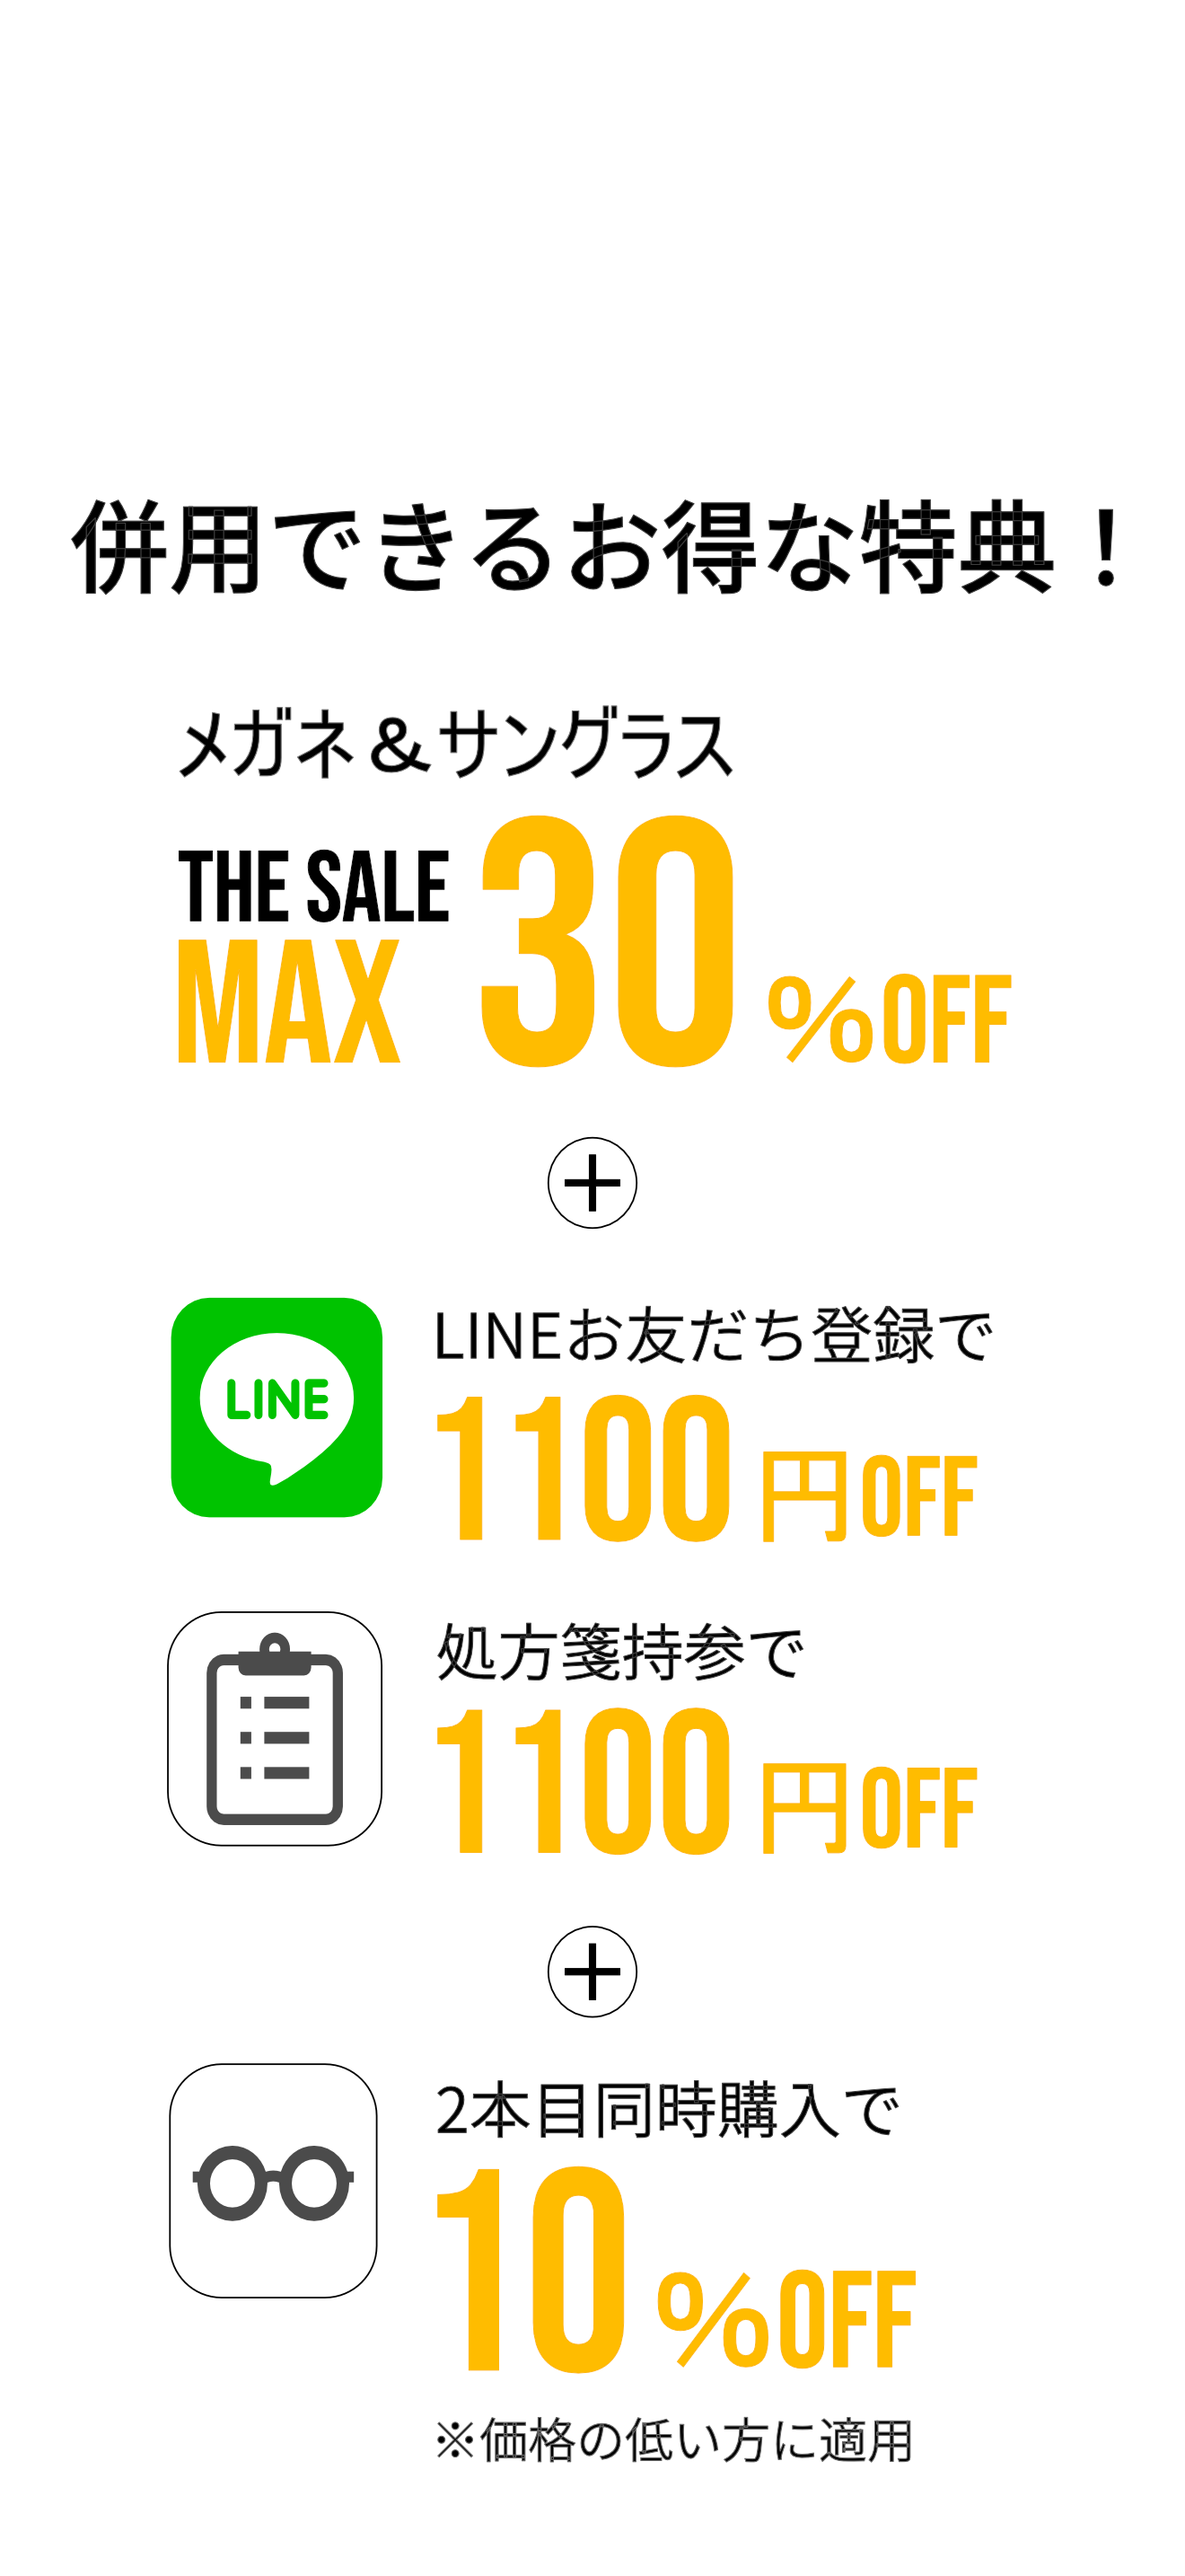
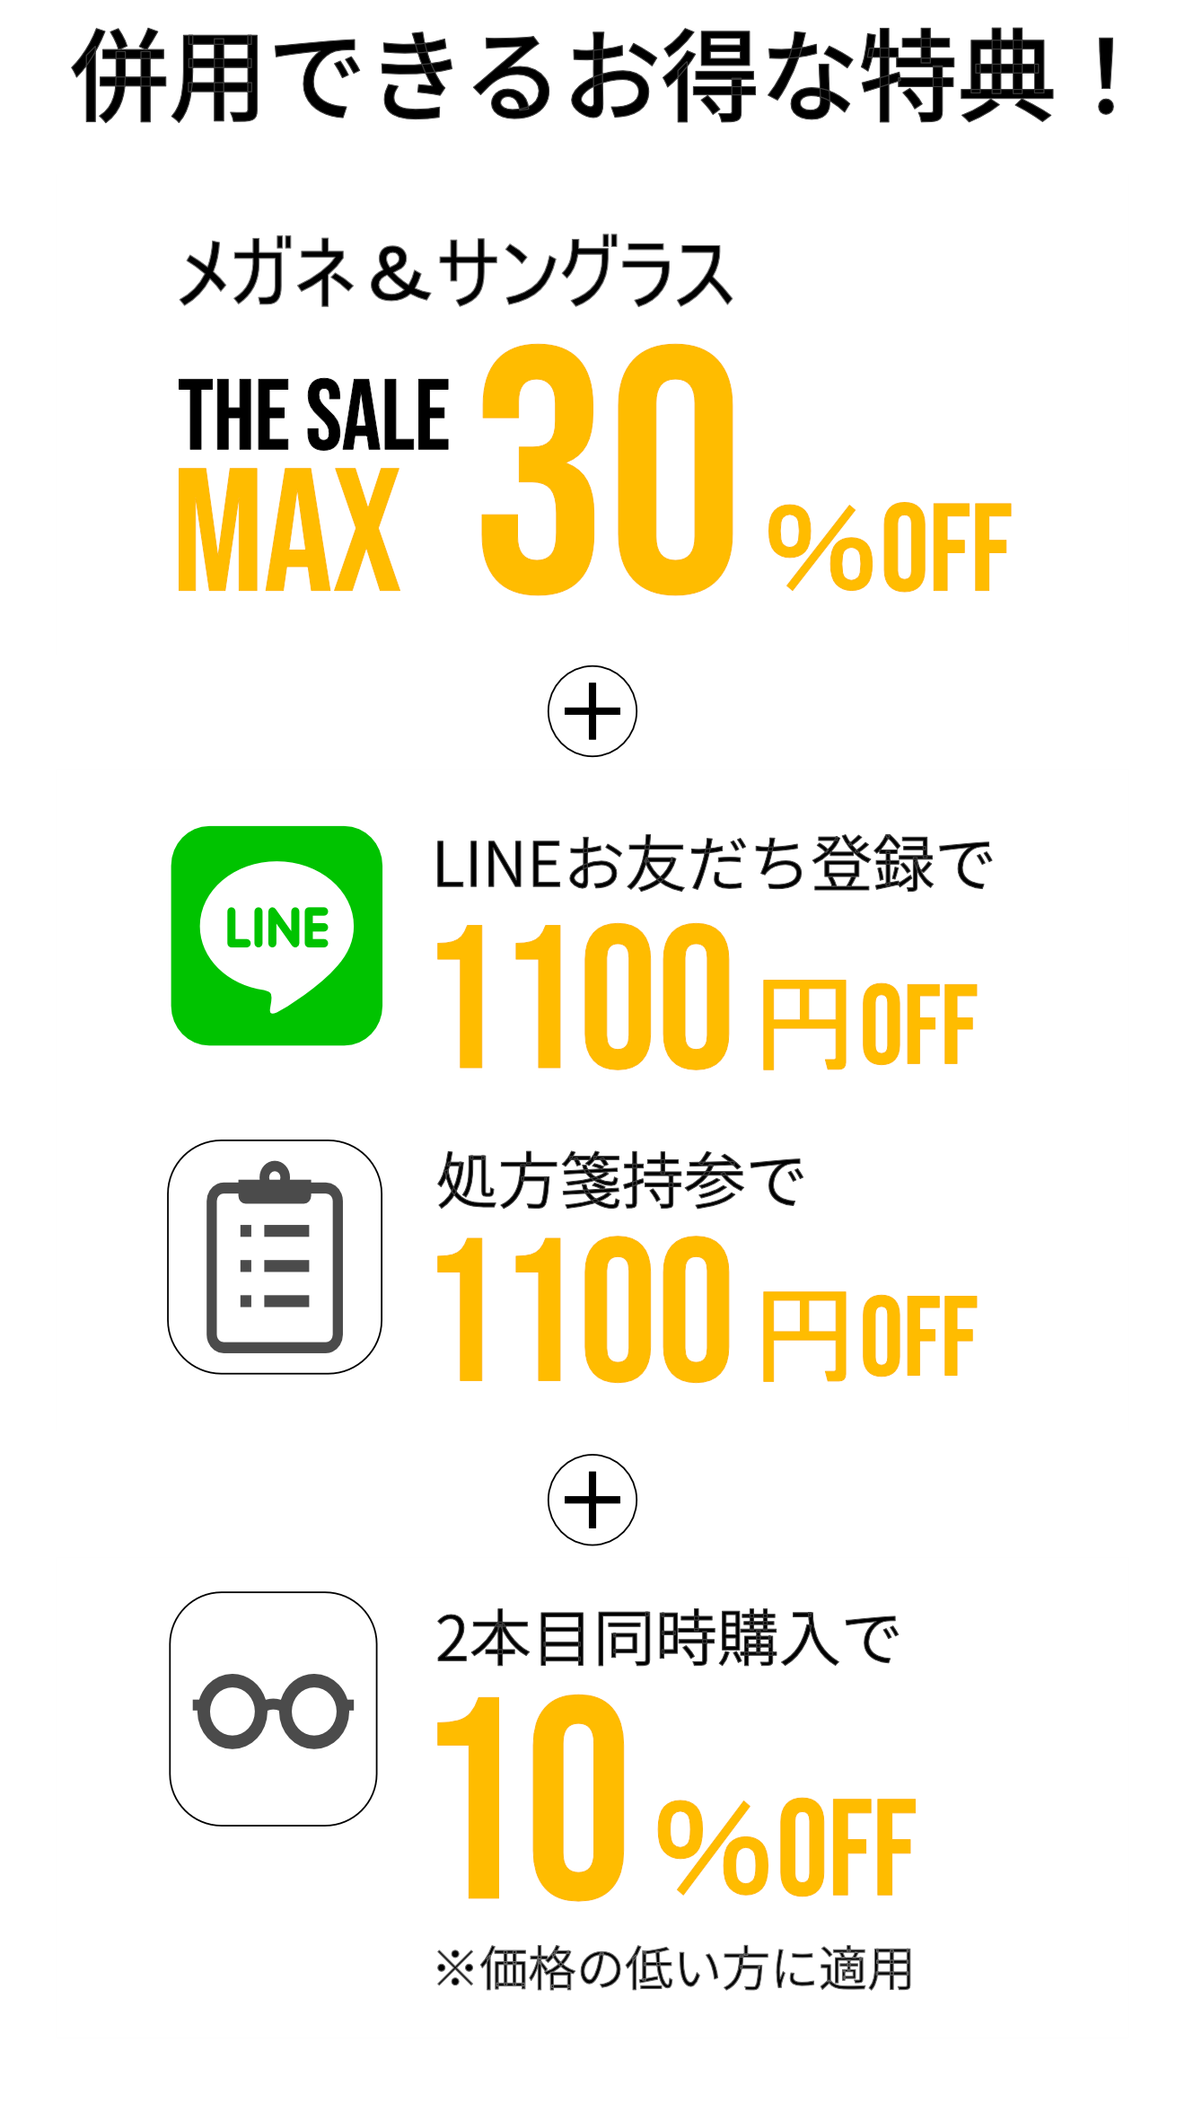
特典セクションのスマホ版画像(sumaho.png)上部の余分な空白をトリミング、吹き出しと見出しの間隔を詰める

diff --git a/index.html b/index.html
@@ -268,6 +268,10 @@
     background: #FBF6EA;
     padding: clamp(24px, 4vh, 40px) clamp(8px, 1vw, 16px);
   }
+  @media (max-width: 640px) {
+    .lens-standard-band { margin-bottom: 20px !important; }
+    .perk-section { padding-top: 16px; }
+  }
   .perk-inner { max-width: 1000px; margin: 0 auto; position: relative; }
   .perk-benefits-image { display: block; width: 100%; height: auto; }
   .perk-bubble { margin: 0 0 10px; }
